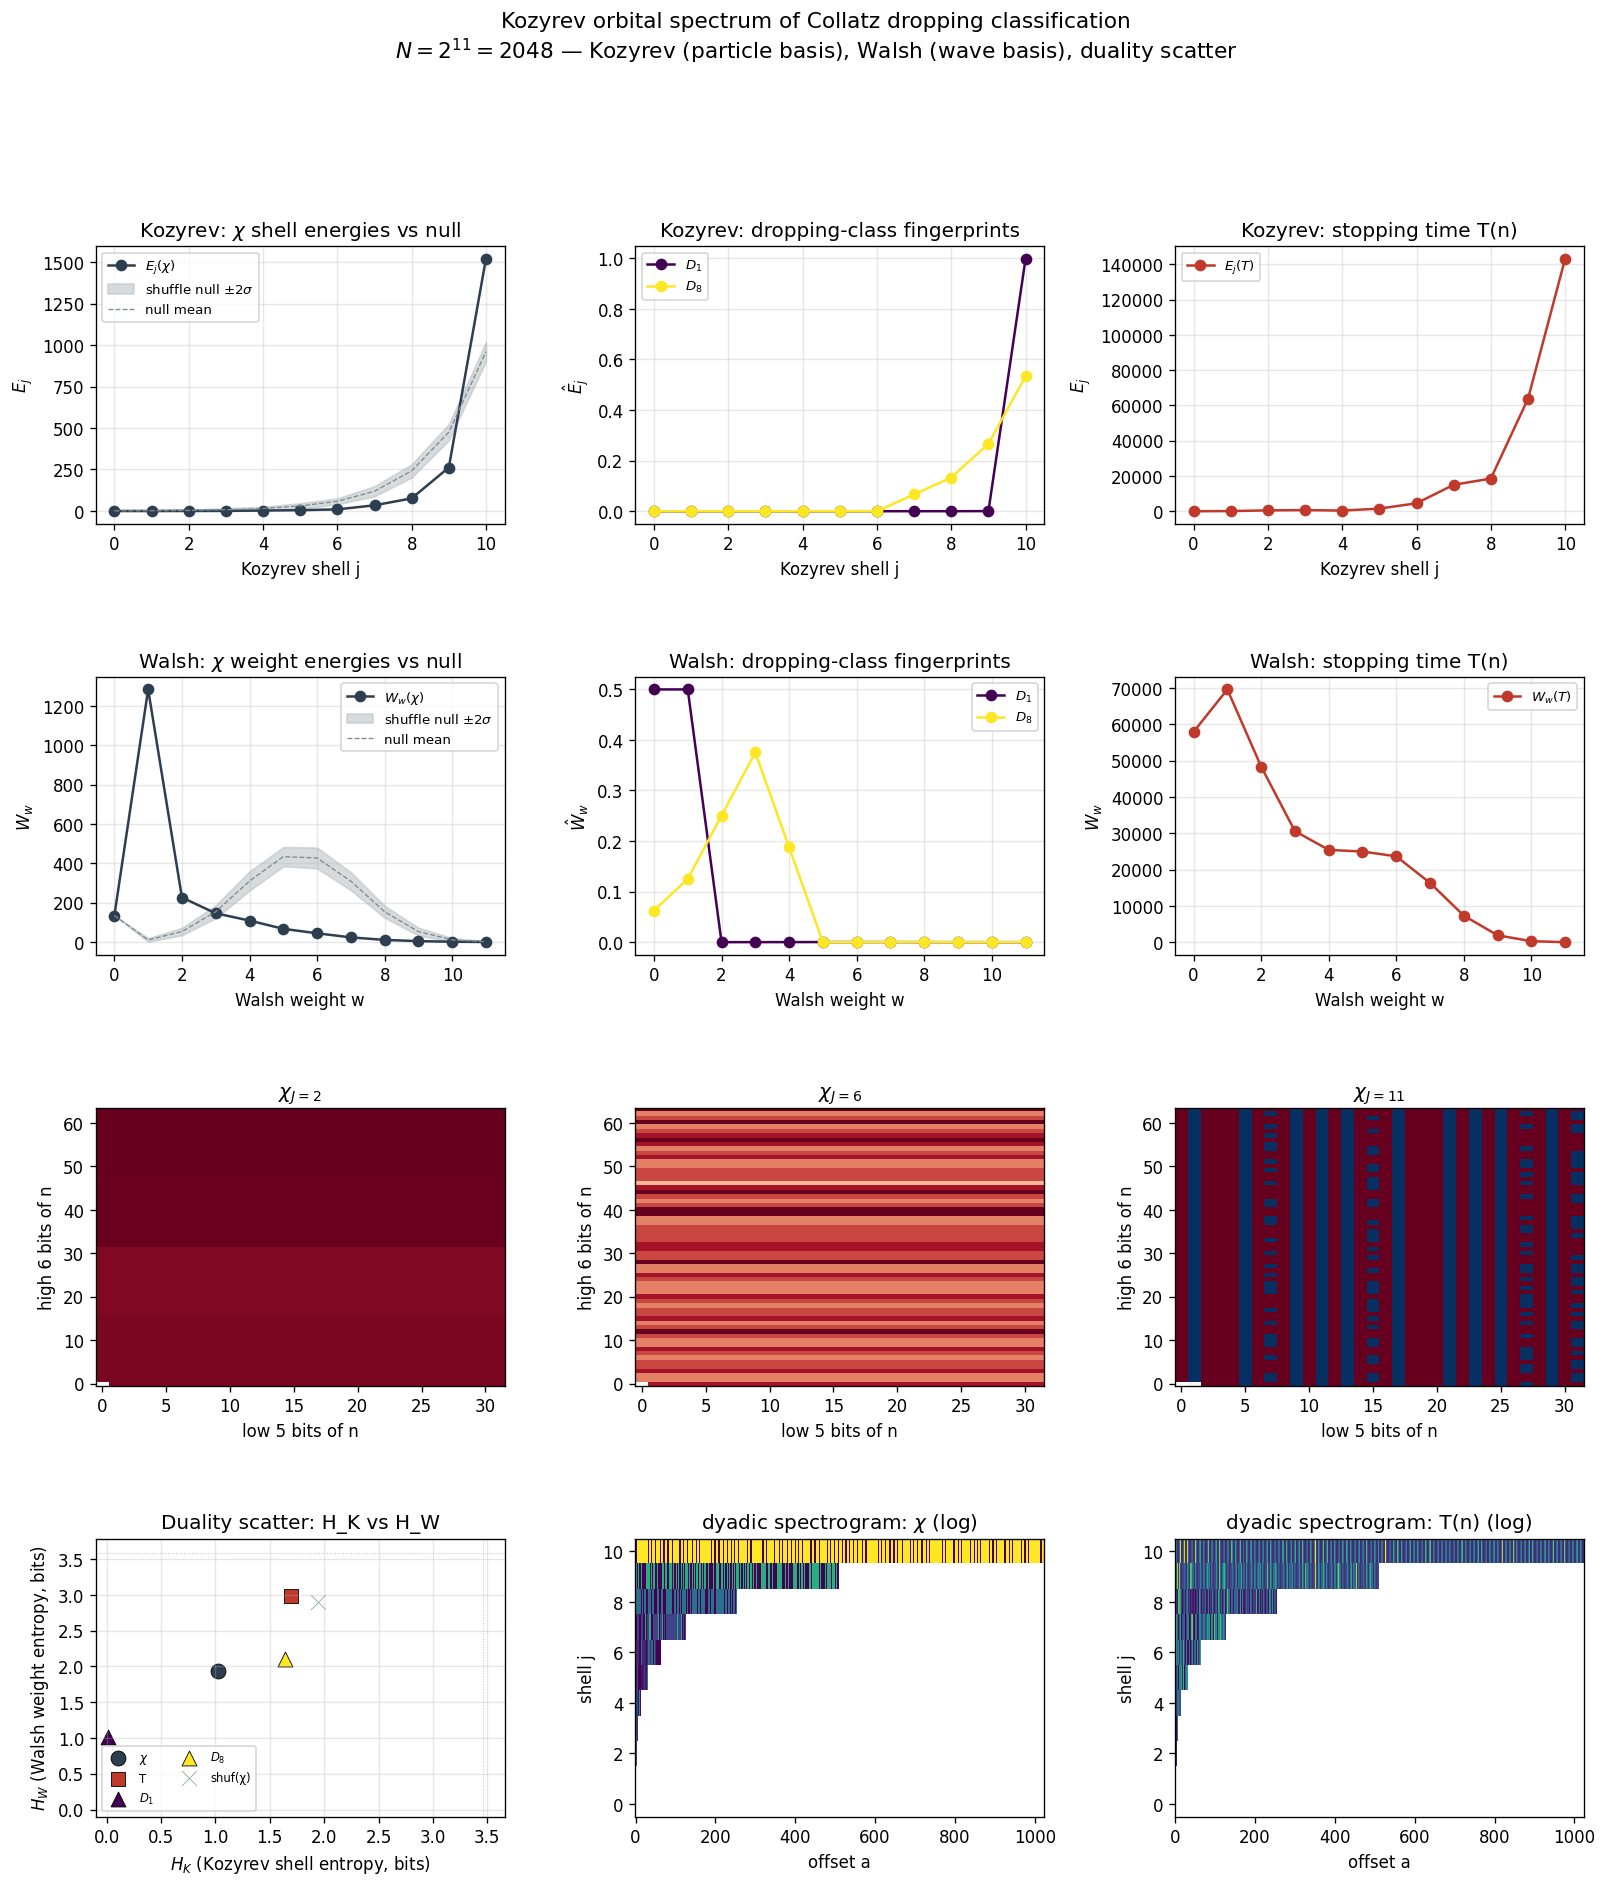
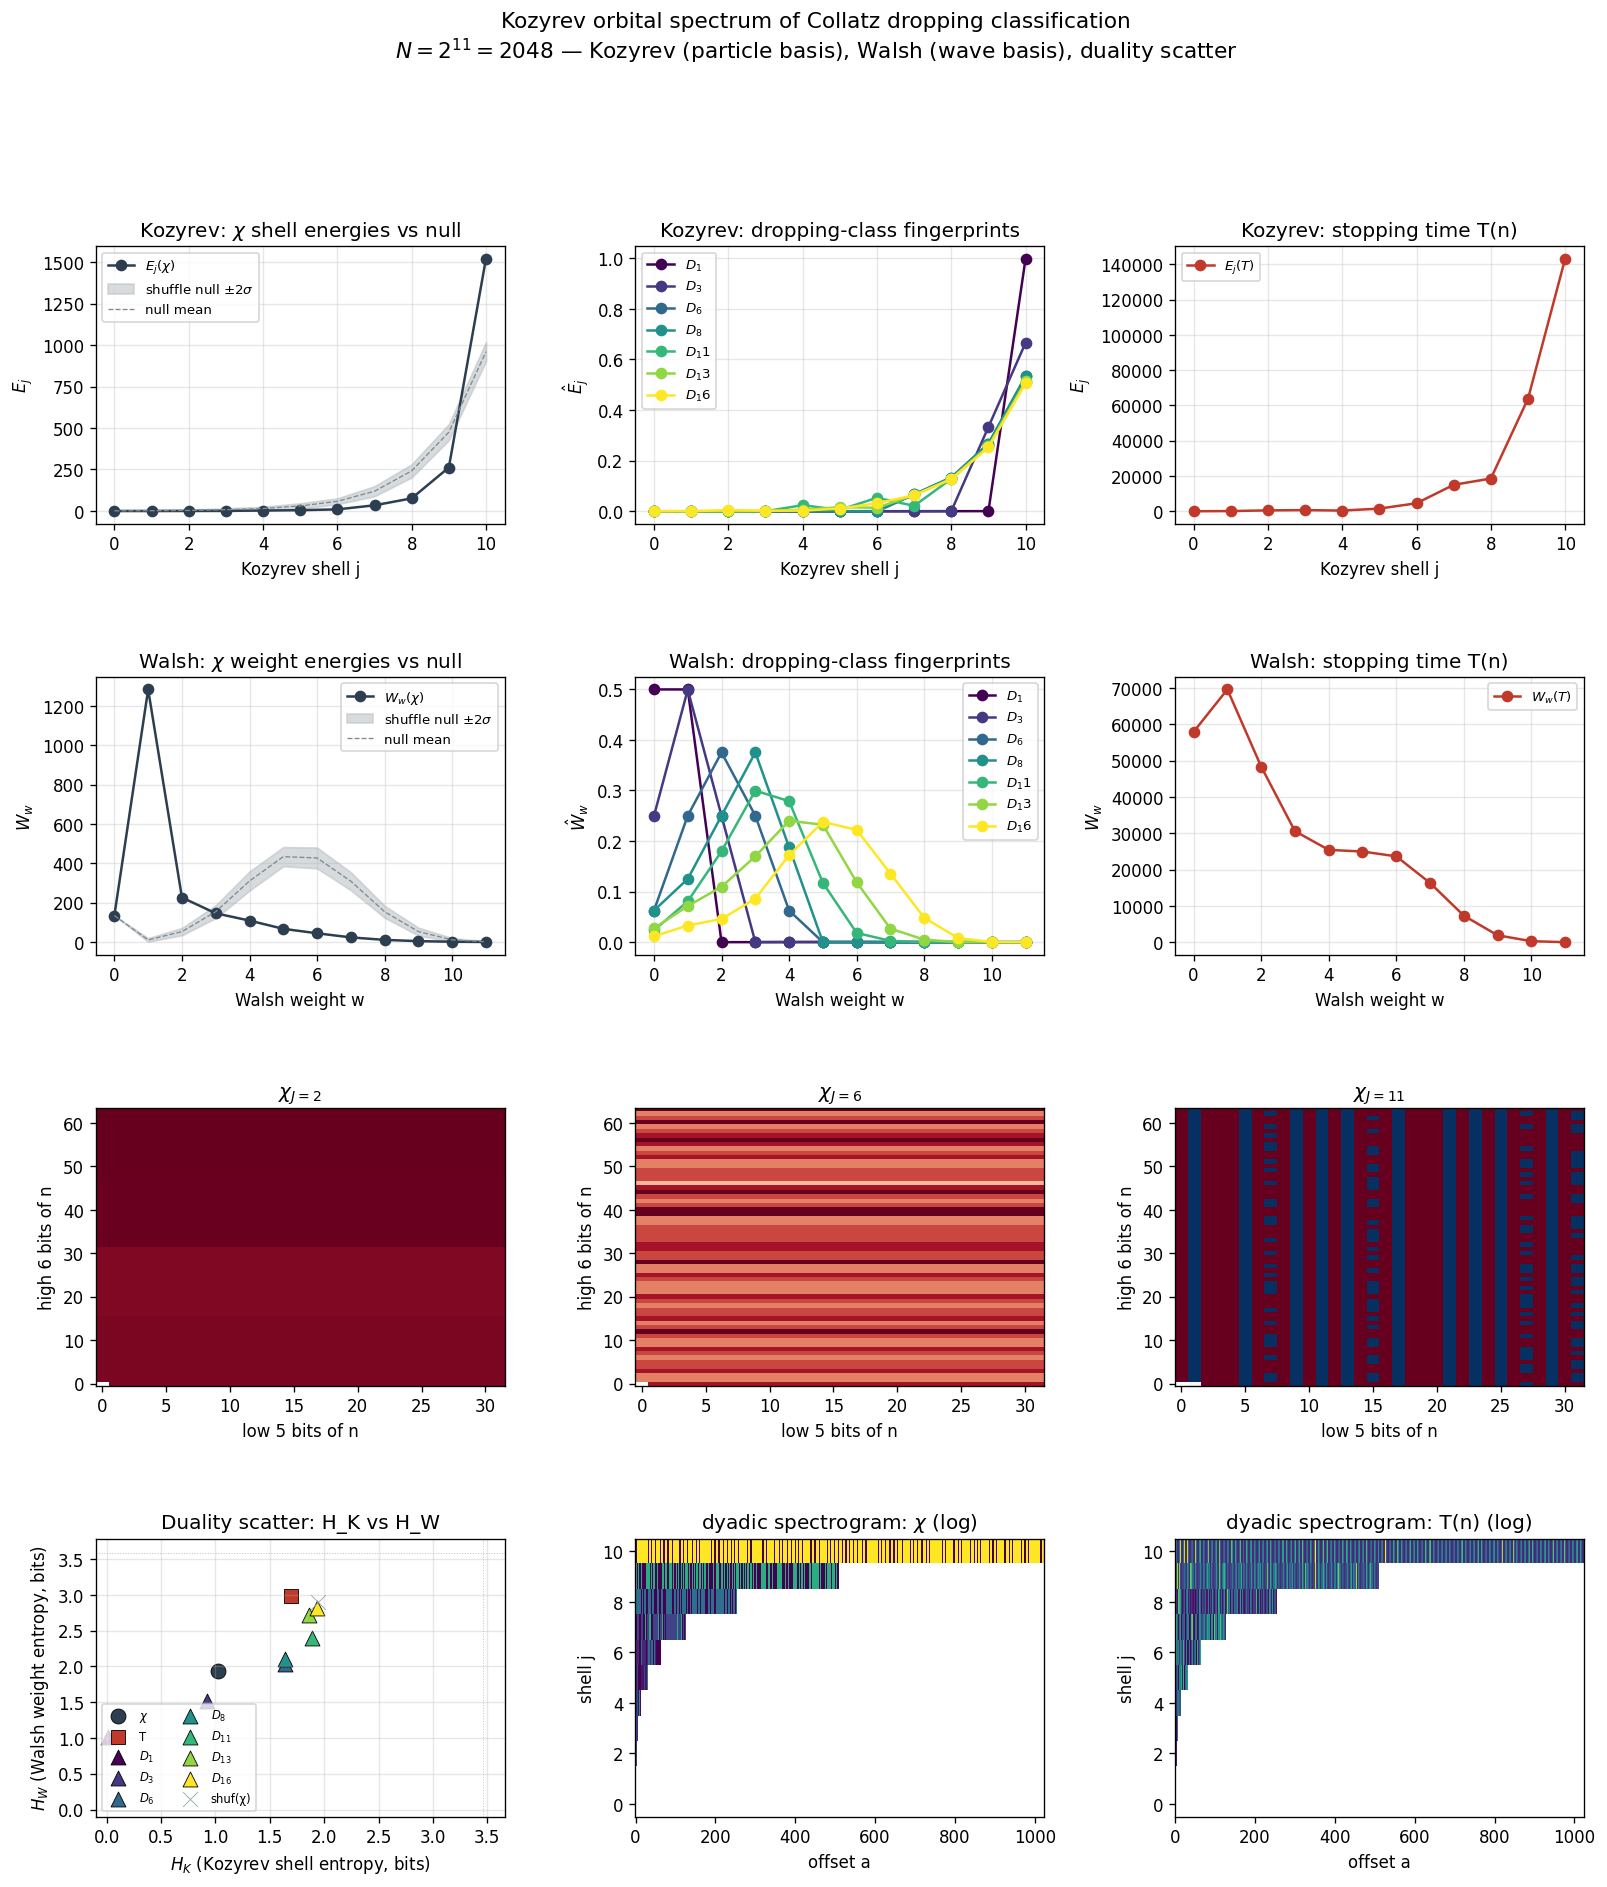
fix(spectrum): use non-empty Beatty-rung dropping classes for fingerprint panels
Replace [1,2,4,5,7,8] (structurally empty classes) with [1,3,6,8,11,13,16]
(the first 7 non-empty Beatty-rung classes) so all fingerprint panels are
populated. Note: spec listed 14 but the correct Beatty rung at o=5 is 13
(o + floor(o·log₂3) + 1 = 5 + 7 + 1 = 13); D_14 has 0 members at N=2048.

diff --git a/scripts/collatz_kozyrev_spectrum.py b/scripts/collatz_kozyrev_spectrum.py
@@ -155,7 +155,7 @@ def main() -> None:
 
     K = 11
     N = 1 << K
-    target_dropping_classes = [1, 2, 4, 5, 7, 8]
+    target_dropping_classes = [1, 3, 6, 8, 11, 13, 16]
     partial_recon_depths = [2, 4, 6, 8, K]
 
     print(f"K = {K}, N = {N}")